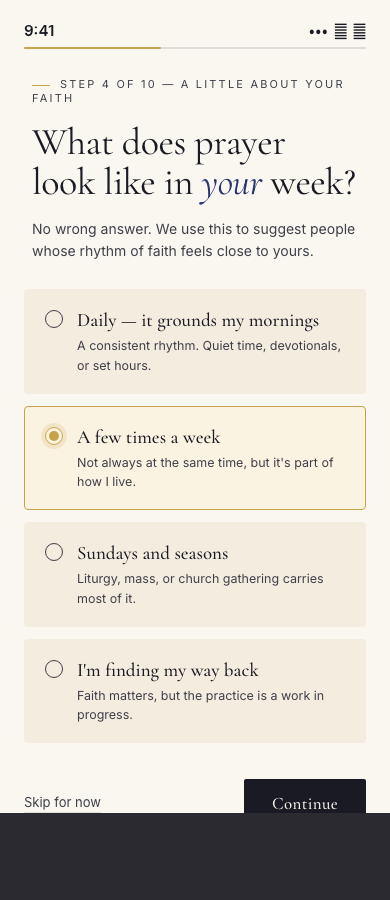
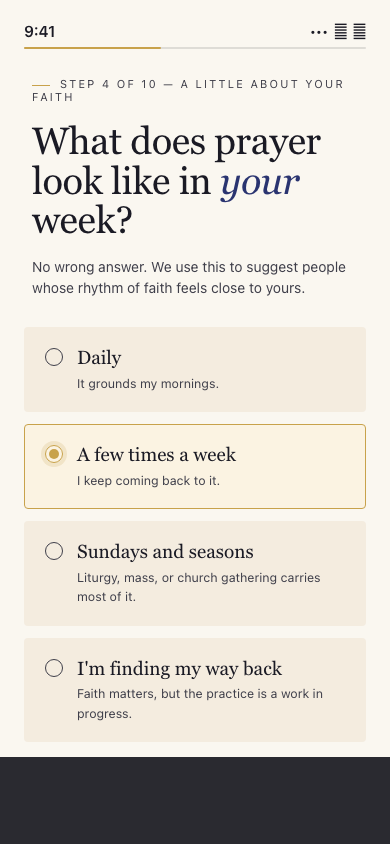
design(BLE-158): align radio-card Step 4 opt 1+2 to Pastor v0 canon
Swaps opt 1 + opt 2 sub-text on Step 4 (faith rhythm) to BLE-95
onboarding canon. Opt 1 label trimmed to "Daily" to match canon
table and avoid duplication with new sub. Co-sign pre-approved by
Pastor on BLE-156#comment-1b4f3fcc (canon-source rule).

- opt 1 label: "Daily — it grounds my mornings" -> "Daily"
- opt 1 sub:   "A consistent rhythm. Quiet time, devotionals, or set hours." -> "It grounds my mornings."
- opt 2 sub:   "Not always at the same time, but it's part of how I live." -> "I keep coming back to it."

Token / class layer untouched. Screenshot re-rendered at 390x844
(iPhone 14 reference) via headless Chrome.

diff --git a/docs/design/system-v0/components/radio-card.html b/docs/design/system-v0/components/radio-card.html
@@ -198,15 +198,15 @@
       <div class="option">
         <span class="marker"></span>
         <div class="body">
-          <div class="label">Daily — it grounds my mornings</div>
-          <div class="sub">A consistent rhythm. Quiet time, devotionals, or set hours.</div>
+          <div class="label">Daily</div>
+          <div class="sub">It grounds my mornings.</div>
         </div>
       </div>
       <div class="option is-selected">
         <span class="marker"></span>
         <div class="body">
           <div class="label">A few times a week</div>
-          <div class="sub">Not always at the same time, but it's part of how I live.</div>
+          <div class="sub">I keep coming back to it.</div>
         </div>
       </div>
       <div class="option">
